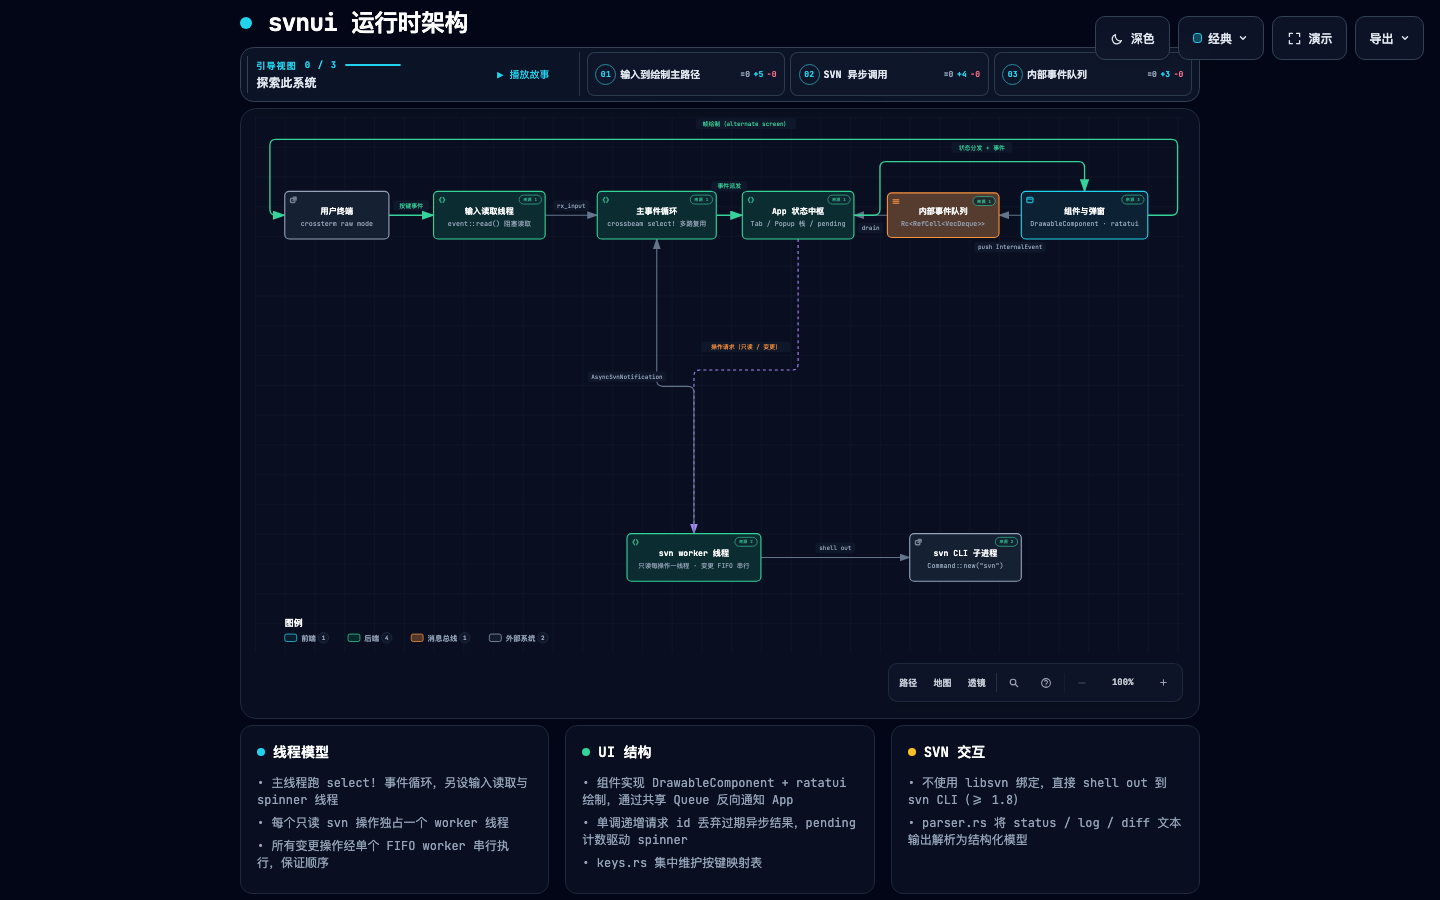
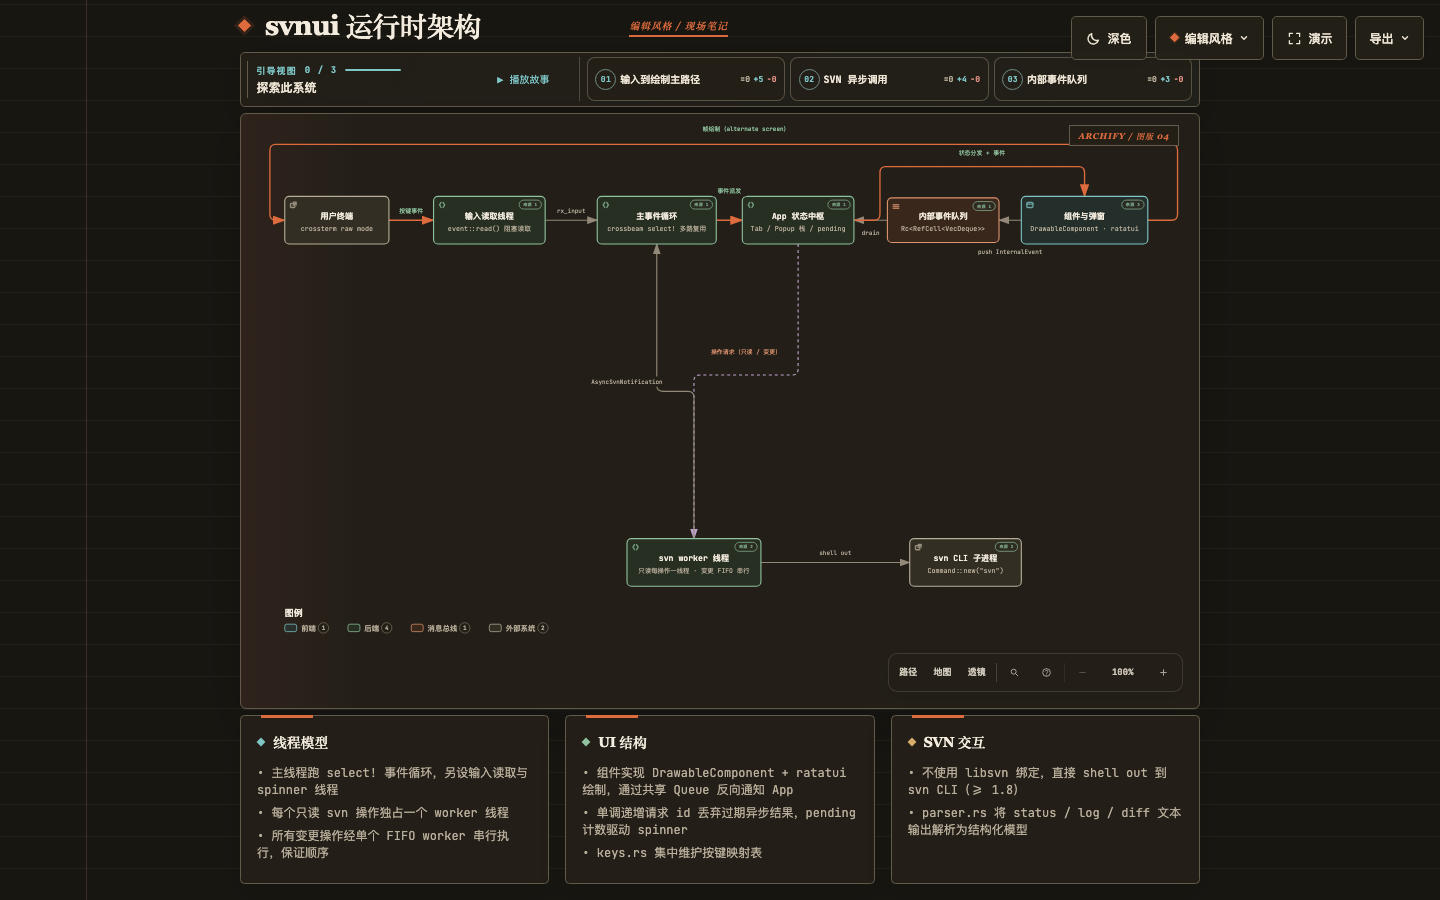
docs: switch architecture map to editorial theme, drop change-log narration
- README: larger cropped light-theme diagram image; remove badge-history
  note and 'still works' wording from CI/CD section
- agent.md: keep only durable rules (git2svn version floor, badge target)

diff --git a/docs/architecture/svnui-architecture.html b/docs/architecture/svnui-architecture.html
@@ -1,5 +1,5 @@
 <!DOCTYPE html>
-<html lang="zh-CN" data-theme="dark" data-preset="classic">
+<html lang="zh-CN" data-theme="dark" data-preset="editorial">
 <head>
   <meta charset="UTF-8">
   <meta name="viewport" content="width=device-width, initial-scale=1.0">
@@ -5004,7 +5004,7 @@
     <!-- Main Diagram -->
     <div class="diagram-container" data-detail-level="read"
          data-preset-badge-editorial-plate="ARCHIFY / 图版 04">
-      <svg viewBox="0 0 1250 720" role="img" lang="zh-CN" aria-labelledby="archify-diagram-title archify-diagram-description" data-preset="classic" data-quality-profile="showcase">
+      <svg viewBox="0 0 1250 700" role="img" lang="zh-CN" aria-labelledby="archify-diagram-title archify-diagram-description" data-preset="editorial" data-quality-profile="showcase">
         <title id="archify-diagram-title">svnui 运行时架构</title>
         <desc id="archify-diagram-description">由 Archify 生成的架构图。</desc>
         <!-- Definitions -->
@@ -5192,22 +5192,22 @@
 
         <!-- Legend -->
         <g data-legend="" data-legend-bridge="">
-          <text x="40" y="684" class="t-primary" font-size="12" font-weight="650">图例</text>
-          <g data-legend-semantic-kind="frontend" data-legend-kind="frontend" data-legend-label="前端" data-legend-x="40" data-legend-baseline="704" data-legend-width="63">
-            <rect x="40" y="695" width="16" height="10" rx="2.5" class="c-frontend" stroke-width="1"/>
-            <text x="62" y="704" class="t-muted" font-size="10" font-weight="500">前端</text>
+          <text x="40" y="664" class="t-primary" font-size="12" font-weight="650">图例</text>
+          <g data-legend-semantic-kind="frontend" data-legend-kind="frontend" data-legend-label="前端" data-legend-x="40" data-legend-baseline="684" data-legend-width="63">
+            <rect x="40" y="675" width="16" height="10" rx="2.5" class="c-frontend" stroke-width="1"/>
+            <text x="62" y="684" class="t-muted" font-size="10" font-weight="500">前端</text>
           </g>
-          <g data-legend-semantic-kind="backend" data-legend-kind="backend" data-legend-label="后端" data-legend-x="125" data-legend-baseline="704" data-legend-width="63">
-            <rect x="125" y="695" width="16" height="10" rx="2.5" class="c-backend" stroke-width="1"/>
-            <text x="147" y="704" class="t-muted" font-size="10" font-weight="500">后端</text>
+          <g data-legend-semantic-kind="backend" data-legend-kind="backend" data-legend-label="后端" data-legend-x="125" data-legend-baseline="684" data-legend-width="63">
+            <rect x="125" y="675" width="16" height="10" rx="2.5" class="c-backend" stroke-width="1"/>
+            <text x="147" y="684" class="t-muted" font-size="10" font-weight="500">后端</text>
           </g>
-          <g data-legend-semantic-kind="messagebus" data-legend-kind="messagebus" data-legend-label="消息总线" data-legend-x="210" data-legend-baseline="704" data-legend-width="83">
-            <rect x="210" y="695" width="16" height="10" rx="2.5" class="c-messagebus" stroke-width="1"/>
-            <text x="232" y="704" class="t-muted" font-size="10" font-weight="500">消息总线</text>
+          <g data-legend-semantic-kind="messagebus" data-legend-kind="messagebus" data-legend-label="消息总线" data-legend-x="210" data-legend-baseline="684" data-legend-width="83">
+            <rect x="210" y="675" width="16" height="10" rx="2.5" class="c-messagebus" stroke-width="1"/>
+            <text x="232" y="684" class="t-muted" font-size="10" font-weight="500">消息总线</text>
           </g>
-          <g data-legend-semantic-kind="external" data-legend-kind="external" data-legend-label="外部系统" data-legend-x="315" data-legend-baseline="704" data-legend-width="83">
-            <rect x="315" y="695" width="16" height="10" rx="2.5" class="c-external" stroke-width="1"/>
-            <text x="337" y="704" class="t-muted" font-size="10" font-weight="500">外部系统</text>
+          <g data-legend-semantic-kind="external" data-legend-kind="external" data-legend-label="外部系统" data-legend-x="315" data-legend-baseline="684" data-legend-width="83">
+            <rect x="315" y="675" width="16" height="10" rx="2.5" class="c-external" stroke-width="1"/>
+            <text x="337" y="684" class="t-muted" font-size="10" font-weight="500">外部系统</text>
           </g>
         </g>
       </svg>

diff --git a/README_EN.md b/README_EN.md
@@ -6,9 +6,9 @@ An SVN (Subversion) terminal UI client inspired by [gitui](https://github.com/gi
 
 ## Architecture map
 
-An interactive runtime architecture map generated from the source with [Archify](https://github.com/tt-a1i/archify) (dark/light themes, route tracing, guided views):
+An interactive runtime architecture map generated from the source with [Archify](https://github.com/tt-a1i/archify) (light editorial theme, switchable to dark; route tracing and guided views):
 
-[![svnui runtime architecture](docs/architecture/svnui-architecture.visual-check.1440x900.dark.png)](https://htmlpreview.github.io/?https://github.com/LiuYinCarl/svnui/blob/master/docs/architecture/svnui-architecture.html)
+[![svnui runtime architecture](docs/architecture/svnui-architecture.png)](https://htmlpreview.github.io/?https://github.com/LiuYinCarl/svnui/blob/master/docs/architecture/svnui-architecture.html)
 
 Click the image to explore the interactive version online; the diagram spec lives at [docs/architecture/svnui.architecture.json](docs/architecture/svnui.architecture.json).
 
@@ -120,10 +120,6 @@ Prebuilt binaries for Linux (x86_64), macOS (arm64) and Windows (x86_64) are att
 [![CI](https://github.com/LiuYinCarl/svnui/actions/workflows/ci.yml/badge.svg)](https://github.com/LiuYinCarl/svnui/actions/workflows/ci.yml)
 [![Release](https://github.com/LiuYinCarl/svnui/actions/workflows/bump.yml/badge.svg)](https://github.com/LiuYinCarl/svnui/actions/workflows/bump.yml)
 
-> Note: day-to-day releasing is carried by bump.yml (it bumps the version, then calls release.yml
-> to build and publish). GitHub attributes reusable-workflow runs to the caller, so release.yml's
-> own badge was stuck on early failed manual tag pushes — the badge above shows bump.yml instead.
-
 `.github/workflows/` contains three pipelines:
 
 - **ci.yml** — runs on push / PR: fmt, clippy (zero-warning gate), full tests on Linux/macOS, coverage gate (≥ 80%), release builds on three platforms, and headless stress tests: a parallel matrix of 13 popular open-source repos across languages — redis / tmux (C), clap (Rust), slugify (JS), ts-node (TS), requests (Python), gin (Go), nlohmann/json (C++), gson (Java), jekyll (Ruby), composer (PHP), elixir (Elixir), ohmyzsh (Shell) — each shallow-cloned at depth 500, converted to SVN with git2svn, and driven through 60 randomized rounds (15-minute cap per leg); the source commit is logged so failures can be reproduced.
@@ -134,7 +130,7 @@ Prebuilt binaries for Linux (x86_64), macOS (arm64) and Windows (x86_64) are att
 
 Day to day, just push to master/main: bump.yml bumps the patch version and releases automatically — no manual steps.
 
-For a minor/major release, set `version` in `Cargo.toml` to the target before pushing (bump only increments the patch part on top of it). The manual tag flow still works too (the tag `vX.Y.Z` must match the `Cargo.toml` version):
+For a minor/major release, set `version` in `Cargo.toml` to the target before pushing (bump only increments the patch part on top of it). You can also tag manually (the tag `vX.Y.Z` must match the `Cargo.toml` version):
 
 ```bash
 git tag v0.2.0

diff --git a/README.md b/README.md
@@ -6,9 +6,9 @@
 
 ## 架构图
 
-由 [Archify](https://github.com/tt-a1i/archify) 依据源码生成的交互式运行时架构图（暗色/亮色主题、路径追踪、引导视图）：
+由 [Archify](https://github.com/tt-a1i/archify) 依据源码生成的交互式运行时架构图（编辑风格浅色主题，可切换暗色、路径追踪、引导视图）：
 
-[![svnui 运行时架构](docs/architecture/svnui-architecture.visual-check.1440x900.dark.png)](https://htmlpreview.github.io/?https://github.com/LiuYinCarl/svnui/blob/master/docs/architecture/svnui-architecture.html)
+[![svnui 运行时架构](docs/architecture/svnui-architecture.png)](https://htmlpreview.github.io/?https://github.com/LiuYinCarl/svnui/blob/master/docs/architecture/svnui-architecture.html)
 
 点击图片可在线查看交互式版本；图的源规格为 [docs/architecture/svnui.architecture.json](docs/architecture/svnui.architecture.json)（校验规格变化可对比架构演进）。
 
@@ -115,10 +115,6 @@ svnui /path/to/working-copy
 [![CI](https://github.com/LiuYinCarl/svnui/actions/workflows/ci.yml/badge.svg)](https://github.com/LiuYinCarl/svnui/actions/workflows/ci.yml)
 [![Release](https://github.com/LiuYinCarl/svnui/actions/workflows/bump.yml/badge.svg)](https://github.com/LiuYinCarl/svnui/actions/workflows/bump.yml)
 
-> 注：日常发布由 bump.yml 承载（bump 版本号后调用 release.yml 构建发版）；可复用工作流的运行
-> 记录在 GitHub 上归属于调用方，因此 release.yml 自身的徽章永远停在早期手动打标签的失败
-> 记录上，这里改为展示 bump.yml 的状态。
-
 `.github/workflows/` 包含三条流水线：
 
 - **ci.yml** — push / PR 时运行：fmt、clippy（零警告门禁）、Linux/macOS 全量测试、覆盖率门禁（≥ 80%）、三平台 release 构建、压测（matrix 并行跑 13 个不同语言的流行开源仓库——redis / tmux(C)、clap(Rust)、slugify(JS)、ts-node(TS)、requests(Python)、gin(Go)、nlohmann/json(C++)、gson(Java)、jekyll(Ruby)、composer(PHP)、elixir(Elixir)、ohmyzsh(Shell)——各浅克隆 500 个提交后用 git2svn 转成 SVN，无头驱动 App 跑 60 轮随机操作，单 job 限时 15 分钟；日志记录源仓库 commit 以便复现）。
@@ -129,7 +125,7 @@ svnui /path/to/working-copy
 
 日常向 master/main push 即可：bump.yml 会自动 bump 补丁版本并发布，无需手动操作。
 
-想发 minor / major 版本：push 前自己把 `Cargo.toml` 的 `version` 改成目标版本即可（bump 只会在其基础上再 +1 补丁位）。也可以沿用手动标签流程（标签 `vX.Y.Z` 必须与 `Cargo.toml` 版本一致）：
+想发 minor / major 版本：push 前自己把 `Cargo.toml` 的 `version` 改成目标版本即可（bump 只会在其基础上再 +1 补丁位）。也可以手动打标签（标签 `vX.Y.Z` 必须与 `Cargo.toml` 版本一致）：
 
 ```bash
 git tag v0.2.0

diff --git a/agent.md b/agent.md
@@ -194,9 +194,8 @@ SVNUI_STRESS_ROUNDS=30 scripts/stress_test.sh   # 快速验证
 指向合法工作副本时才真正执行，否则直接跳过（pass）。
 
 注意事项：
-- 曾发现 go-git 并发读 packfile 竞争导致转换偶发 "object not found"，
-  已在 git2svn 侧修复（f7011b6，每个 worker 独立的 Repository 句柄）；
-  若用旧版 git2svn，可加 `GOMAXPROCS=1` 规避。
+- git2svn 需包含 f7011b6 或更新（每个 worker 独立 Repository 句柄）；更旧版本并发
+  转换会偶发 "object not found"，可加 `GOMAXPROCS=1` 规避。
 - 想要"恰好约 1000 提交"的仓库，可从本地大仓库截断历史（示例：
   `git clone --no-local file://<repo> dst && cd dst && b=$(git rev-list
   --first-parent HEAD | sed -n 1000p) && git replace --graft $b &&
@@ -243,5 +242,5 @@ SVNUI_STRESS_ROUNDS=30 scripts/stress_test.sh   # 快速验证
   再构建 Linux/macOS/Windows 二进制并创建 Release。发版流程见 README「发布新版本」。
   注意：`cargo build --locked` 要求 Cargo.lock 与 Cargo.toml 版本同步（bump.yml 用
   `cargo check` 重写 lock；手动改版本号发 tag 前必须同步提交 Cargo.lock）。
-  README 的 Release 徽章指向 bump.yml——可复用工作流的运行记录归属调用方，
-  release.yml 自身徽章会停在早期手动 tag 的失败记录上。
+  README 的 Release 徽章指向 bump.yml（可复用工作流的运行记录归属调用方，
+  release.yml 徽章不反映实际发布状态）。
